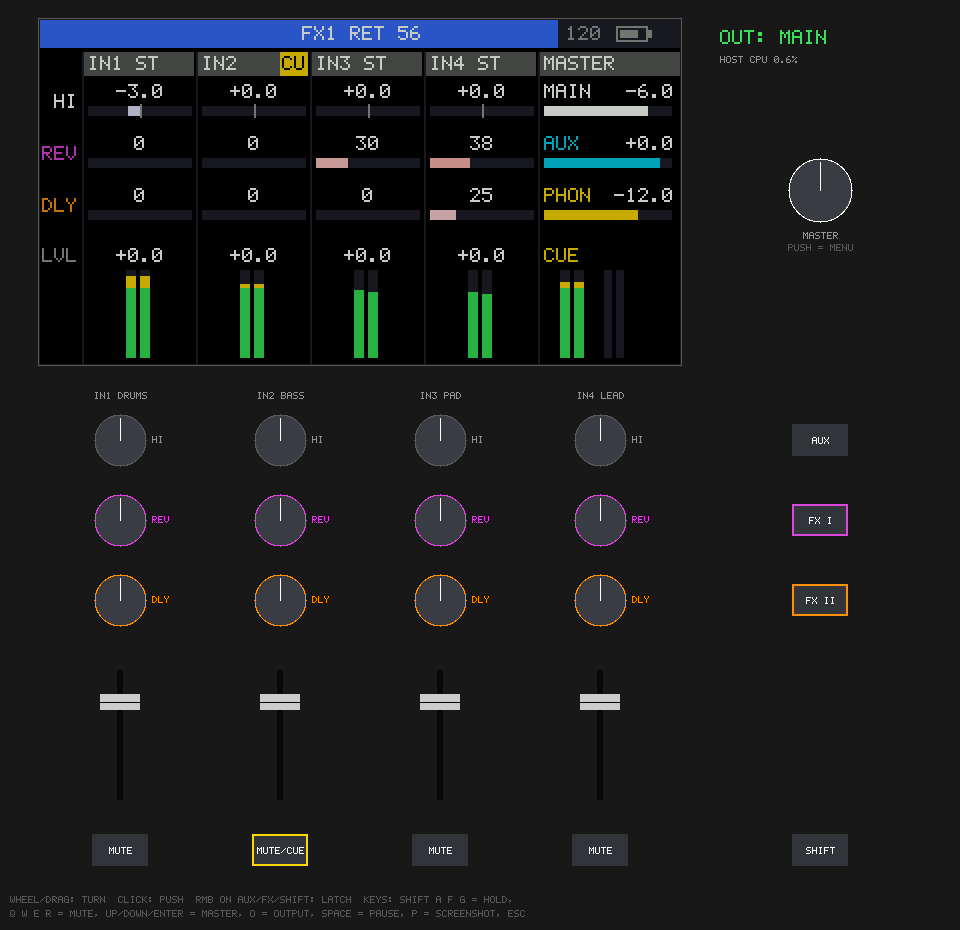
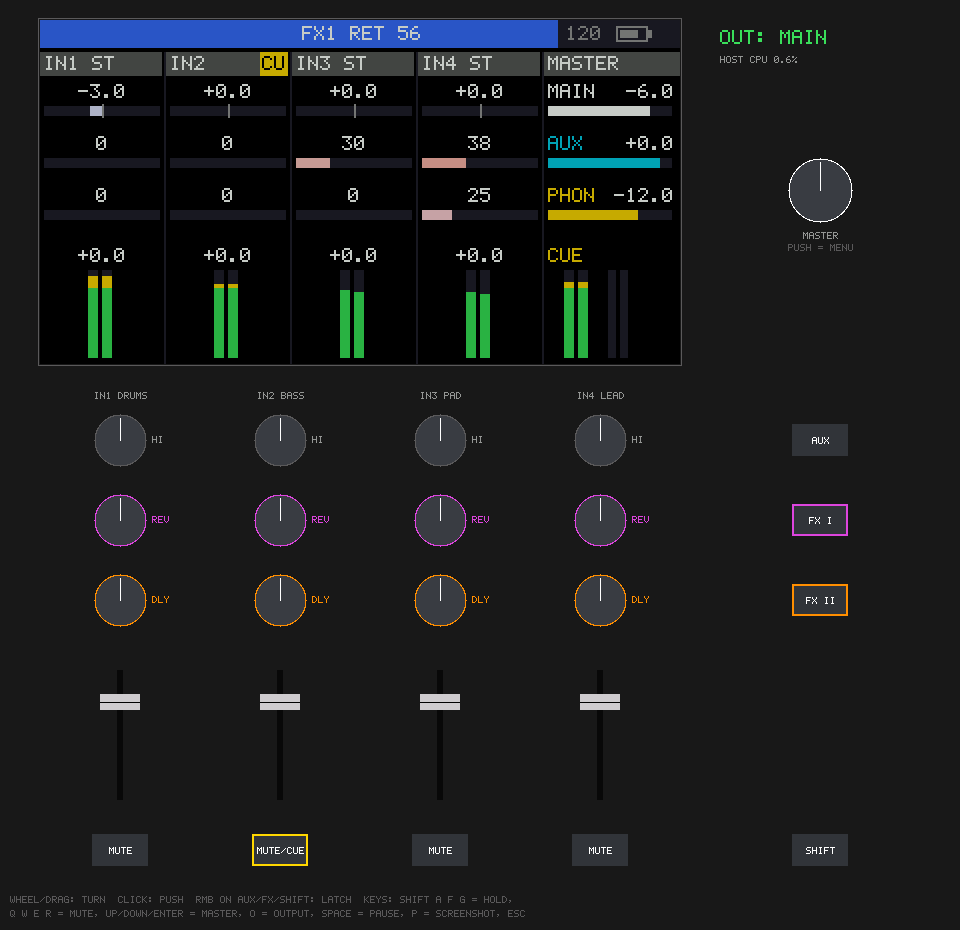
digital-mixer: екран - без колонки підписів; ряд у шапці й клітинка підсвічуються, поки їх крутять (1,5 с)

diff --git a/digital-mixer/firmware/src/core/ui.cpp b/digital-mixer/firmware/src/core/ui.cpp
@@ -18,6 +18,7 @@ enum MenuId {
     M_MIDICH, M_CTRL, M_BRIGHT, M_ENCDIR, M_SHIFTMODE, M_FADERCAL, M_BATT, M_ABOUT, M_COUNT
 };
 static const int MENU_ROWS = 8;
+static constexpr uint32_t HIGHLIGHT_MS = 1500;           // how long a turned cell stays highlighted
 
 // value colour relative to 0: white at 0, toward blue at the minimum, toward red at the maximum
 static uint16_t valueColor(int id, float v) {
@@ -101,6 +102,16 @@ int Ui::batteryPercent() {
     float v = hal_->batteryVolts();
     if (v <= 0) return -1;
     return (int)clampf((v - 3.3f) / (4.2f - 3.3f) * 100.f, 0, 100);
+}
+
+void Ui::highlight(int ch, int row) {
+    hlCh_ = ch;
+    hlRow_ = row;
+    hlUntil_ = hal_->millis() + HIGHLIGHT_MS;
+}
+
+bool Ui::highlighted(int ch, int row) const {
+    return (int32_t)(hal_->millis() - hlUntil_) < 0 && (ch < 0 || ch == hlCh_) && row == hlRow_;
 }
 
 void Ui::changed() {
@@ -204,6 +215,7 @@ void Ui::encoder(int id, int delta) {
             return;
         }
     if (shiftOn()) used_[B_SHIFT] = true;
+    highlight(ch, row);
     stepParam(ch, rowParam(ch, row), delta);
 }
 
@@ -259,6 +271,7 @@ void Ui::button(int id, bool down) {
         }
         if (shiftOn()) used_[B_SHIFT] = true;
         int pid = rowParam(ch, row);
+        highlight(ch, row);
         setParam(ch, pid, paramDesc(pid).def);
     }
 }
@@ -623,19 +636,8 @@ void Ui::drawTop(Canvas& c, const char* title, uint16_t colr) {
 }
 
 // Home layout: row labels once on the left, then 4 input strips and the master strip.
-static constexpr int LABEL_W = 22, STRIP_W = 57, MASTER_X = LABEL_W + NCH * STRIP_W, ROW_Y0 = 32, ROW_DY = 26;
+static constexpr int LABEL_W = 0, STRIP_W = 63, MASTER_X = LABEL_W + NCH * STRIP_W, ROW_Y0 = 32, ROW_DY = 26;
 static constexpr int LVL_Y = 112;                       // level block: number, then meters and fader below
-
-void Ui::drawLabels(Canvas& c) {
-    for (int r = 0; r < 3; r++) {
-        int id = rowParam(0, r);
-        bool same = true;
-        for (int ch = 1; ch < NCH; ch++) same &= rowParam(ch, r) == id;
-        c.textRight(LABEL_W - 4, ROW_Y0 + r * ROW_DY + 5, same ? rowLabel(id) : "F/C", paramColor(id));
-    }
-    c.textRight(LABEL_W - 4, LVL_Y + 2, "LVL", col::DIM);
-    c.vline(LABEL_W - 1, 16, DISPLAY_H - 16, col::DARK);
-}
 
 void Ui::drawStrip(Canvas& c, int ch, int x) {
     const Scene& s = settings_->ctrlMode ? shadow_ : *scene_;
@@ -650,6 +652,7 @@ void Ui::drawStrip(Canvas& c, int ch, int x) {
     for (int r = 0; r < 3; r++) {
         int id = rowParam(ch, r), y0 = ROW_Y0 + r * ROW_DY;
         float v = paramGet(s, *live_, ch, id);
+        if (highlighted(ch, r)) c.fill(x, y0 - 3, w, 22, rgb(35, 55, 110));
         paramFormat(id, v, buf, sizeof buf);
         float n = paramNorm(id, v);
         c.textCentered(x + w / 2, y0, buf, col::WHITE);
@@ -701,13 +704,34 @@ void Ui::drawMaster(Canvas& c, int x) {
 }
 
 void Ui::drawHome(Canvas& c) {
-    char title[48];
-    if (shiftOn()) snprintf(title, sizeof title, shiftLatched_ ? "SHIFT ON: GAIN PAN FILT/COMP" : "SHIFT: GAIN PAN FILT/COMP");
-    else snprintf(title, sizeof title, "%s %s %s", auxLayer_ ? "AUX" : "HI", fxLayer_[0] ? rowLabel(P_SEND_FX1, true) : "MID",
-                  fxLayer_[1] ? rowLabel(P_SEND_FX2, true) : "LO");
     c.clear(col::BLACK);
-    drawTop(c, title, shiftOn() ? col::YELLOW : col::WHITE);
-    drawLabels(c);
+    drawTop(c, "", col::WHITE);
+    if ((int32_t)(hal_->millis() - toastUntil_) >= 0) {
+        // the three row names of the current layer; the one being turned gets a coloured background
+        const char* prefix = shiftOn() ? (shiftLatched_ ? "SHIFT ON:" : "SHIFT:") : "";
+        const char* words[3];
+        int ids[3];
+        for (int r = 0; r < 3; r++) {
+            int ch = highlighted(-1, r) ? hlCh_ : 0;
+            ids[r] = rowParam(ch, r);
+            bool same = true;
+            for (int k = 1; k < NCH; k++) same &= rowParam(k, r) == ids[r];
+            words[r] = same || highlighted(-1, r) ? rowLabel(ids[r], true) : "FILT/COMP";
+        }
+        int total = Canvas::textWidth(prefix) + (prefix[0] ? 6 : 0);
+        for (int r = 0; r < 3; r++) total += Canvas::textWidth(words[r]) + (r < 2 ? 8 : 0);
+        int x = DISPLAY_W / 2 - total / 2;
+        uint16_t base = shiftOn() ? col::YELLOW : col::WHITE;
+        if (prefix[0]) x = c.text(x, 3, prefix, base) + 5;
+        for (int r = 0; r < 3; r++) {
+            int wd = Canvas::textWidth(words[r]);
+            if (highlighted(-1, r)) {
+                c.fill(x - 2, 1, wd + 4, 12, paramColor(ids[r]));
+                c.text(x, 3, words[r], col::BLACK);
+            } else c.text(x, 3, words[r], base);
+            x += wd + 8;
+        }
+    }
     for (int ch = 0; ch < NCH; ch++) drawStrip(c, ch, LABEL_W + ch * STRIP_W);
     drawMaster(c, MASTER_X);
 }

diff --git a/digital-mixer/firmware/src/core/ui.h b/digital-mixer/firmware/src/core/ui.h
@@ -46,6 +46,8 @@ private:
     Scene& ed() { return settings_->ctrlMode ? shadow_ : *scene_; }
     int fxHeld() const;                   // -1 or 0/1 while FX I / FX II is held (edit mode)
     void changed();
+    void highlight(int ch, int row);      // the cell being turned, for the display
+    bool highlighted(int ch, int row) const;   // ch < 0: any channel
     int batteryPercent();                 // -1 unknown
     void setParam(int ch, int id, float v, bool fromMidi = false);
     void stepParam(int ch, int id, int delta);
@@ -61,7 +63,6 @@ private:
     void menuItem(int i, char* label, char* value, int n);
     // drawing
     void drawHome(Canvas& c);
-    void drawLabels(Canvas& c);
     void drawStrip(Canvas& c, int ch, int x);
     void drawMaster(Canvas& c, int x);
     void drawFx(Canvas& c, int k);
@@ -88,7 +89,9 @@ private:
     bool used_[B_COUNT] = {};             // a held button was used as a modifier
     bool auxLayer_ = false, fxLayer_[NFX] = {false, false};
     bool shiftLatched_ = false;           // SHIFT in toggle mode (settings)
-    bool compRow_[NCH] = {};              // SHIFT layer, 3rd row: false = filter, true = compressor
+    bool compRow_[NCH] = {};
+    int hlCh_ = 0, hlRow_ = -1;
+    uint32_t hlUntil_ = 0;              // SHIFT layer, 3rd row: false = filter, true = compressor
     uint32_t encAt_[E_COUNT] = {};
     bool encSeen_[E_COUNT] = {};
 
